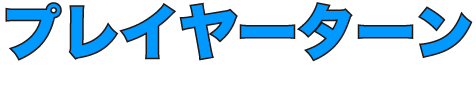
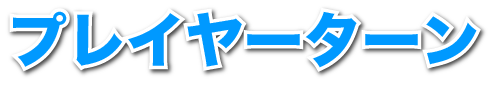
ターンスタートを3Dレイヤに戻した

Changed region(s): [[0.0, 0.0225, 1.0, 0.7191]]

diff --git a/src/js/game-object/turn-start/view/player-turn-start-view.js b/src/js/game-object/turn-start/view/player-turn-start-view.js
@@ -9,7 +9,7 @@ import {drawImageInCenter} from "../../../canvas/draw/image-drawer";
 import type {TurnStartModel} from "../model/turn-start-model";
 import {SPRITE_RENDER_ORDER} from "../../../render-order/td-render-order";
 
-export const MESH_SIZE = 500;
+export const MESH_SIZE = 300;
 export const CANVAS_SIZE = 512;
 
 /** プレイヤーターンスタートビュー */
@@ -31,7 +31,7 @@ export class PlayerTurnStartView implements TurnStartView {
       : new Image();
     this._canvas.draw(context => {
       const dx = context.canvas.width / 2;
-      const dy = context.canvas.height / 2 + 16;
+      const dy = context.canvas.height / 2;
       drawImageInCenter(context, indicator, dx, dy);
     });
   }
@@ -60,9 +60,9 @@ export class PlayerTurnStartView implements TurnStartView {
   /** 座標を更新する */
   _refreshPos(): void {
     const target = this._canvas.getObject3D();
-    target.position.x = 0;
-    target.position.y = 0;
-    target.position.z = 0;
+    target.position.x = 150;
+    target.position.y = 150;
+    target.position.z = 40;
   }
 
   /**

diff --git a/src/js/game/components/three-js-canvas/scene/battle/view/td/player/index.js b/src/js/game/components/three-js-canvas/scene/battle/view/td/player/index.js
@@ -23,6 +23,7 @@ export type TDPlayer<T: ArmDozerSprite> = {
   batteryNumber: BatteryNumber,
   recoverBattery: RecoverBattery,
   damageIndicator: DamageIndicator,
+  turnStart: TurnStart,
 };
 
 /**
@@ -37,6 +38,7 @@ export function appendTDPlayer<T: ArmDozerSprite>(scene: THREE.Scene, player: TD
   scene.add(player.batteryNumber.getObject3D());
   scene.add(player.recoverBattery.getObject3D());
   scene.add(player.damageIndicator.getObject3D());
+  scene.add(player.turnStart.getObject3D());
 }
 
 /**
@@ -51,4 +53,5 @@ export function disposeTDPlayer<T: ArmDozerSprite>(target: TDPlayer<T>): void {
   target.damageIndicator.destructor();
   target.hitMark.spark.destructor();
   target.recoverBattery.destructor();
+  target.turnStart.destructor();
 }

diff --git a/src/js/game/components/three-js-canvas/scene/battle/view/hud/player/index.js b/src/js/game/components/three-js-canvas/scene/battle/view/hud/player/index.js
@@ -9,7 +9,6 @@ import {TurnStart} from "../../../../../../../../game-object/turn-start/turn-sta
 export type HUDPlayer = {
   playerId: PlayerId,
   gauge: Gauge,
-  turnStart: TurnStart,
 };
 
 /**
@@ -20,7 +19,6 @@ export type HUDPlayer = {
  */
 export function appendHUDPlayer(scene: THREE.Scene, hud: HUDPlayer) {
   scene.add(hud.gauge.getObject3D());
-  scene.add(hud.turnStart.getObject3D());
 }
 
 /**
@@ -30,5 +28,4 @@ export function appendHUDPlayer(scene: THREE.Scene, hud: HUDPlayer) {
  */
 export function disposeHUDPlayer(target: HUDPlayer): void {
   target.gauge.destructor();
-  target.turnStart.destructor();
 }

diff --git a/src/js/game/components/three-js-canvas/scene/battle/animation/state-history/start-game.js b/src/js/game/components/three-js-canvas/scene/battle/animation/state-history/start-game.js
@@ -28,9 +28,9 @@ export function startGameAnimation(view: BattleSceneView, sceneState: BattleScen
     zoomIn(view.td.camera, attackerX, 500),
 
     delay(700)
-      .chain(activeHUDPlayer.turnStart.show())
+      .chain(activeTDPlayer.turnStart.show())
       .chain(delay(1000))
-      .chain(activeHUDPlayer.turnStart.hidden())
+      .chain(activeTDPlayer.turnStart.hidden())
   ).chain(
     delay(800)
   );

diff --git a/src/js/game/components/three-js-canvas/scene/battle/animation/state-history/turn-change.js b/src/js/game/components/three-js-canvas/scene/battle/animation/state-history/turn-change.js
@@ -23,9 +23,9 @@ export function turnChangeAnimation(view: BattleSceneView, sceneState: BattleSce
       .chain(delay(3000)),
 
     delay(700).chain(all(
-      activeHUDPlayer.turnStart.show()
+      activeTDPlayer.turnStart.show()
         .chain(delay(1000))
-        .chain(activeHUDPlayer.turnStart.hidden())
+        .chain(activeTDPlayer.turnStart.hidden())
     )).chain(
       delay(300)
     ).chain(

diff --git a/src/js/game/components/three-js-canvas/scene/battle/view/td/player/player.js b/src/js/game/components/three-js-canvas/scene/battle/view/td/player/player.js
@@ -37,7 +37,8 @@ export function playerTDObjects(resources: Resources, state: PlayerState, listen
     damageIndicator: playerDamageIndicator({
       resources: resources,
       listener: listener
-    })
+    }),
+    turnStart: playerTurnStart(resources, listener)
   }
 }
 

diff --git a/src/js/game/components/three-js-canvas/scene/battle/view/td/player/enemy.js b/src/js/game/components/three-js-canvas/scene/battle/view/td/player/enemy.js
@@ -38,7 +38,8 @@ export function enemyTDObject(resources: Resources, state: PlayerState, listener
     damageIndicator: enemyDamageIndicator({
       resources: resources,
       listener: listener
-    })
+    }),
+    turnStart: enemyTurnStart(resources, listener)
   }
 }
 

diff --git a/src/js/game/components/three-js-canvas/scene/battle/view/hud/player/player.js b/src/js/game/components/three-js-canvas/scene/battle/view/hud/player/player.js
@@ -25,6 +25,5 @@ export function playerHUDObjects(resources: Resources, listener: Observable<Game
       hp: player.armdozer.maxHp,
       battery: player.armdozer.maxBattery,
     }),
-    turnStart: playerTurnStart(resources, listener),
   };
 }

diff --git a/src/js/game/components/three-js-canvas/scene/battle/view/hud/player/enemy.js b/src/js/game/components/three-js-canvas/scene/battle/view/hud/player/enemy.js
@@ -25,6 +25,5 @@ export function enemyHUDObjects(resources: Resources, listener: Observable<GameO
       hp: player.armdozer.maxHp,
       battery: player.armdozer.maxBattery,
     }),
-    turnStart: enemyTurnStart(resources, listener)
   };
 }
